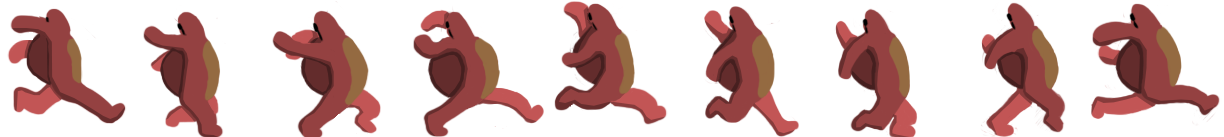
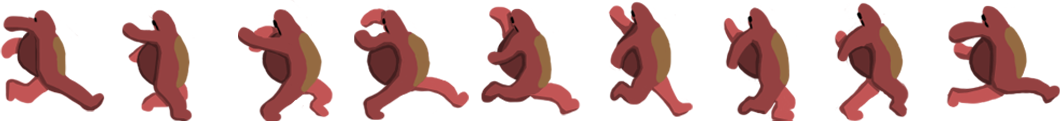
t

diff --git a/src/scene.js b/src/scene.js
@@ -11,7 +11,7 @@ class scene extends Phaser.Scene {
         // At last image must be loaded with its JSON
         this.load.atlas('player2', 'assets/images/kenney_player.png', 'assets/images/kenney_player_atlas.json');
         this.load.spritesheet('player','assets/images/courirT2.png',{frameWidth: 118, frameHeight: 121});
-        this.load.spritesheet('playerP','assets/images/courirP.png',{frameWidth: 136, frameHeight: 137});
+        this.load.spritesheet('playerP','assets/images/courirP.png',{frameWidth: 118, frameHeight: 121});
         this.load.spritesheet('piment','assets/images/piment.png',{frameWidth: 134, frameHeight: 135});
         this.load.image('tiles', 'assets/tilesets/platformPack_tilesheet.png');
         this.load.image('tiles2', 'assets/tilesets/déco1.png');
@@ -84,14 +84,17 @@ class scene extends Phaser.Scene {
 
         if (!this.piment.eatPiment) {
             this.player.player.setVelocityX(500)
+            if (this.player.player.body.onFloor()) {
+                this.player.player.play('walk', true)}
         } else {
             this.player.player.setVelocityX(800)
+            if (this.player.player.body.onFloor()) {
+                this.player.player.play('run', true)}
         }
 
 
 
-        if (this.player.player.body.onFloor()) {
-            this.player.player.play('walk', true)}
+
 
         switch (true) {
             case (this.cursors.up.isDown) && this.player.player.body.onFloor():

diff --git a/src/Player.js b/src/Player.js
@@ -31,14 +31,15 @@ class Player {
         });
 
         this.scene.anims.create({
-            key: 'run',
-            frames: [{key: 'playerP',
+            key:'run',
+            frames: this.scene.anims.generateFrameNames('playerP', {
+
                 start: 0,
                 end: 8,
-            }],
-            frameRate: 10,
-            repeat:-1,
 
+            }),
+            frameRate: 15,
+            repeat: -1,
         });
     }
 
@@ -50,8 +51,11 @@ class Player {
         this.player.setVelocityX(700);
         this.player.setFlipX(false);
         if (this.player.body.onFloor()) {
-            this.player.play('walk', true)}
-    }
+            if(this.scene.piment.eatPiment){
+                this.player.play('run', true)}
+            } else{
+                this.player.play('walk', true)}
+        }
 
     stop(){
         this.player.setVelocityX(0);

diff --git a/src/main.js b/src/main.js
@@ -12,7 +12,7 @@ const config = {
         arcade: {
             gravity: { y: 800 },
             debug: true,
-            fps:144,
+            //fps:144,
         },
     },
     scene: [new Start(), new scene(),]

diff --git a/src/Piment.js b/src/Piment.js
@@ -18,6 +18,7 @@ class Piment {
             repeat: -1,
         });
 
+
         this.piment = this.scene.physics.add.group({
             allowGravity: false,
             immovable: true
